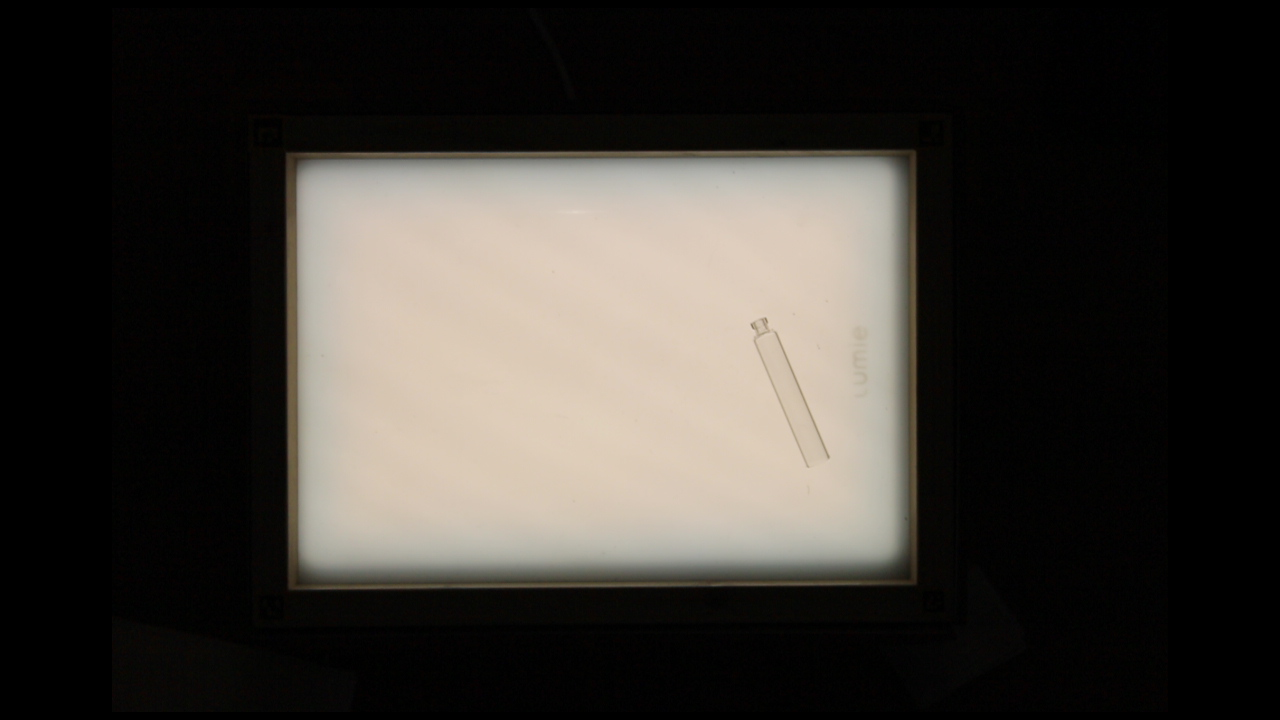
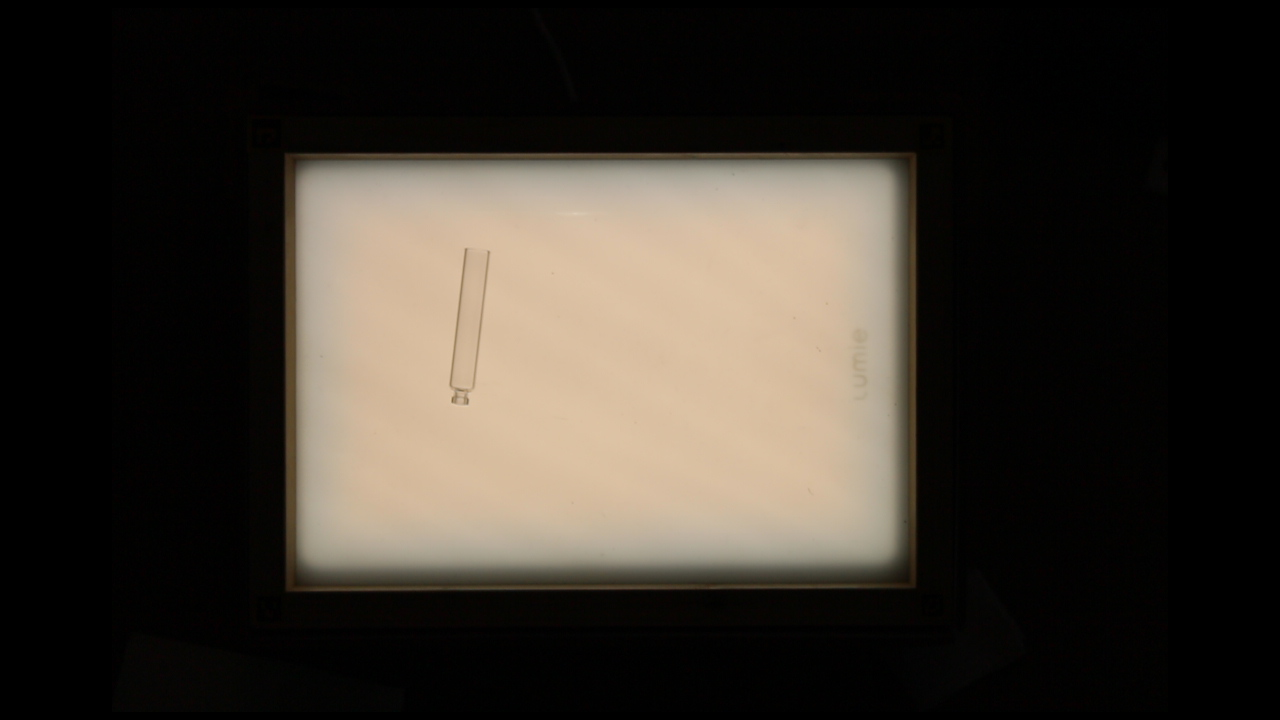
New calibration

Changed region(s): [[0.2188, 0.1833, 0.7188, 0.7639], [0.25, 0.7639, 0.7188, 0.825]]

diff --git a/GlassSegmentV1/LineSearchLib.py b/GlassSegmentV1/LineSearchLib.py
@@ -404,16 +404,22 @@ def HoughLinesSearch(img, houghLength=20, houghDist=5):
         b = 255
         g = 0
         r = 0
-        # * For printing all lines use:
-        for i in range(0, len(linesP)): #for all lines: "linesP", for one glass all lines: "LineGrouping"
-            l = linesP[i] # same as above
-            l = l.astype(int)
-            cv2.line(houghImage, (l[0,0], l[0,1]), (l[0,2], l[0,3]), (b,g,r), 3, cv2.LINE_AA)
-            g+=-255
-            r+=255
-            cv2.imshow('Lines', houghImage)
-            cv2.waitKey(10)
-        '''
+        
+        try:
+            if glassSides == None:
+                        # * For printing all lines use:
+                for i in range(0, len(linesP)): #for all lines: "linesP", for one glass all lines: "LineGrouping"
+                    l = linesP[i] # same as above
+                    l = l.astype(int)
+                    cv2.line(houghImage, (l[0,0], l[0,1]), (l[0,2], l[0,3]), (b,g,r), 3, cv2.LINE_AA)
+                    g+=-255
+                    r+=255
+                    cv2.imshow('Lines', houghImage)
+                    cv2.waitKey(10)
+                return None
+        except:
+            pass
+
         for i in range(0, len(glassSides)): #for all lines: "linesP", for one glass all lines: "LineGrouping"
             l = glassSides[i] # same as above
             l = l.astype(int)
@@ -422,12 +428,6 @@ def HoughLinesSearch(img, houghLength=20, houghDist=5):
             r+=255
             cv2.imshow('Lines', houghImage)
             cv2.waitKey(10)
-        '''
-        try:
-            if glassSides == None:
-                return None
-        except:
-            pass
 
     else:
         glassSides = None

diff --git a/GlassSegmentV1/PreprocessingLib.py b/GlassSegmentV1/PreprocessingLib.py
@@ -12,13 +12,16 @@ def PrepImg(img, corners):
     # * Laplacian edge (delta = 5) -> Cvt. to UByte -> ...
     # * Threshold @ 35
     #img = img[155:550, 304:902]
-    if corners == 0: # In case of no calibration
-        corners = np.empty([4, 2], dtype = np.uint32)
-        corners[0] = [267, 132]
-        corners[1] = [930, 133]
-        corners[2] = [270, 607]
-        corners[3] = [933, 601]
-    img = img[corners[0, 1] + 35:corners[2, 1] - 20, corners[0, 0] + 28:corners[1, 0] - 20]
+    try:
+        if corners == 0: # In case of no calibration
+            corners = np.empty([4, 2], dtype = np.uint32)
+            corners[0] = [267, 132]
+            corners[1] = [930, 133]
+            corners[2] = [270, 607]
+            corners[3] = [933, 601]
+    except:
+        pass
+    img = img[corners[0, 1]:corners[2, 1], corners[0, 0]:corners[1, 0]]
     cv2.imshow("Cropped image", img)
     cv2.waitKey(5)
     img = ResizeToFit(img, H= 403, W = 550)

diff --git a/GlassSegmentV1/RobotLib.py b/GlassSegmentV1/RobotLib.py
@@ -51,8 +51,8 @@ def robotInit():
     printflag = False
     extractCounter = 0
     #! Lumie box points
-    robotfunc.transform_init(p0i = [-383.45, 171.83, 893.33],pxi = [-404.21, -100.2, 893.19], pyi = [-191.8, 159, 896.35])
-    robot.transform_init([-383.45, 171.83, 893.33], [-404.21, -100.2, 893.19], [-191.8, 159, 896.35])
+    robotfunc.transform_init(p0i = [-371, 172.22, 895.87], pxi = [-396.8, -99.54, 897], pyi = [-179.58, 157, 899.65])
+    robot.transform_init([-371, 172.22, 895.87], [-396.8, -99.54, 897], [-179.58, 157, 899.65])
 
     handOffPos = handOffPosLOT()
     #s.close()
